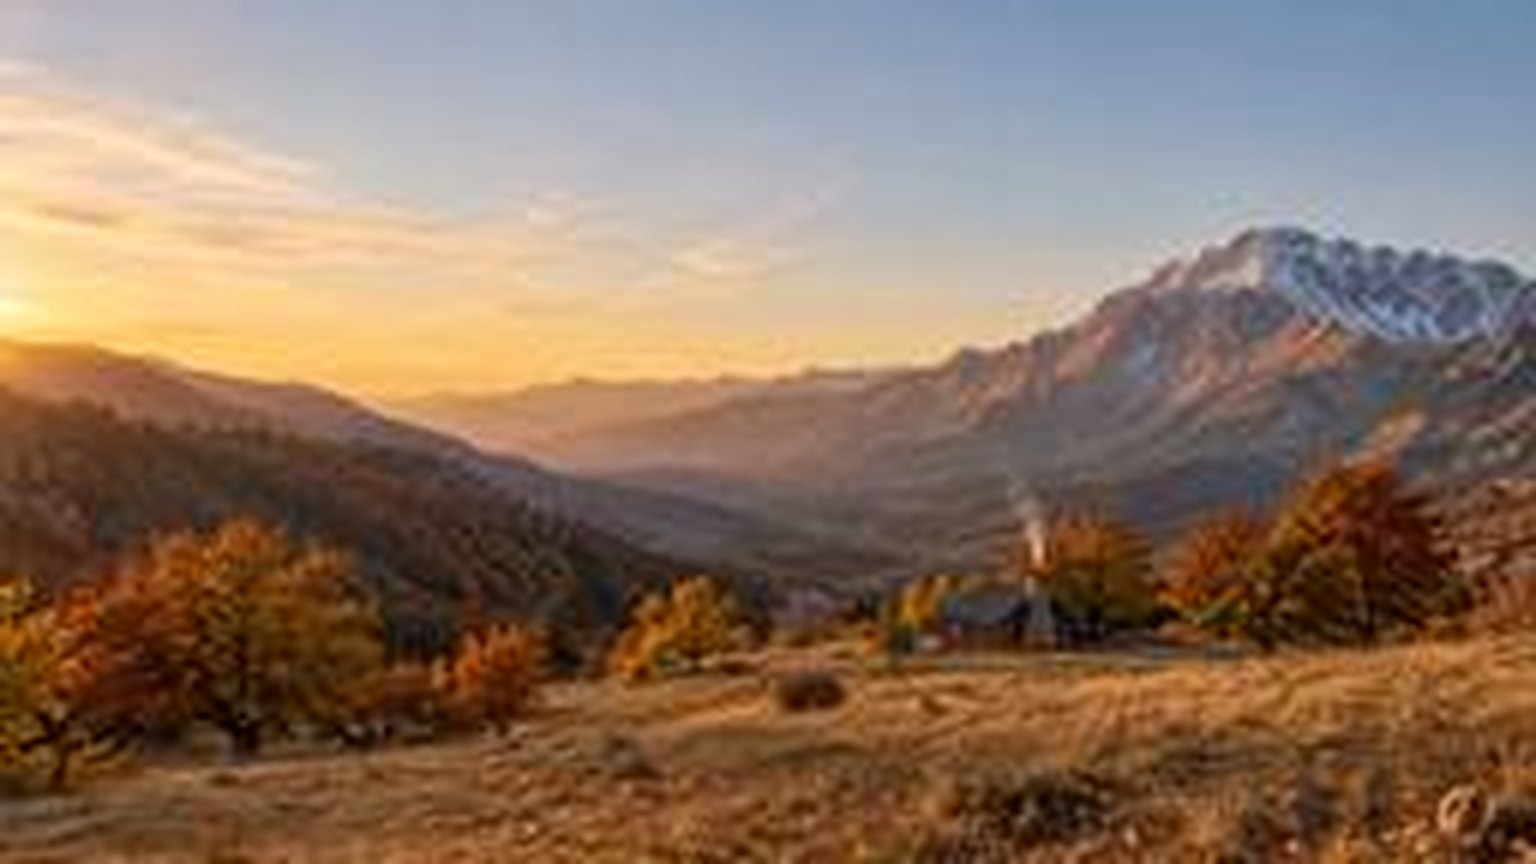
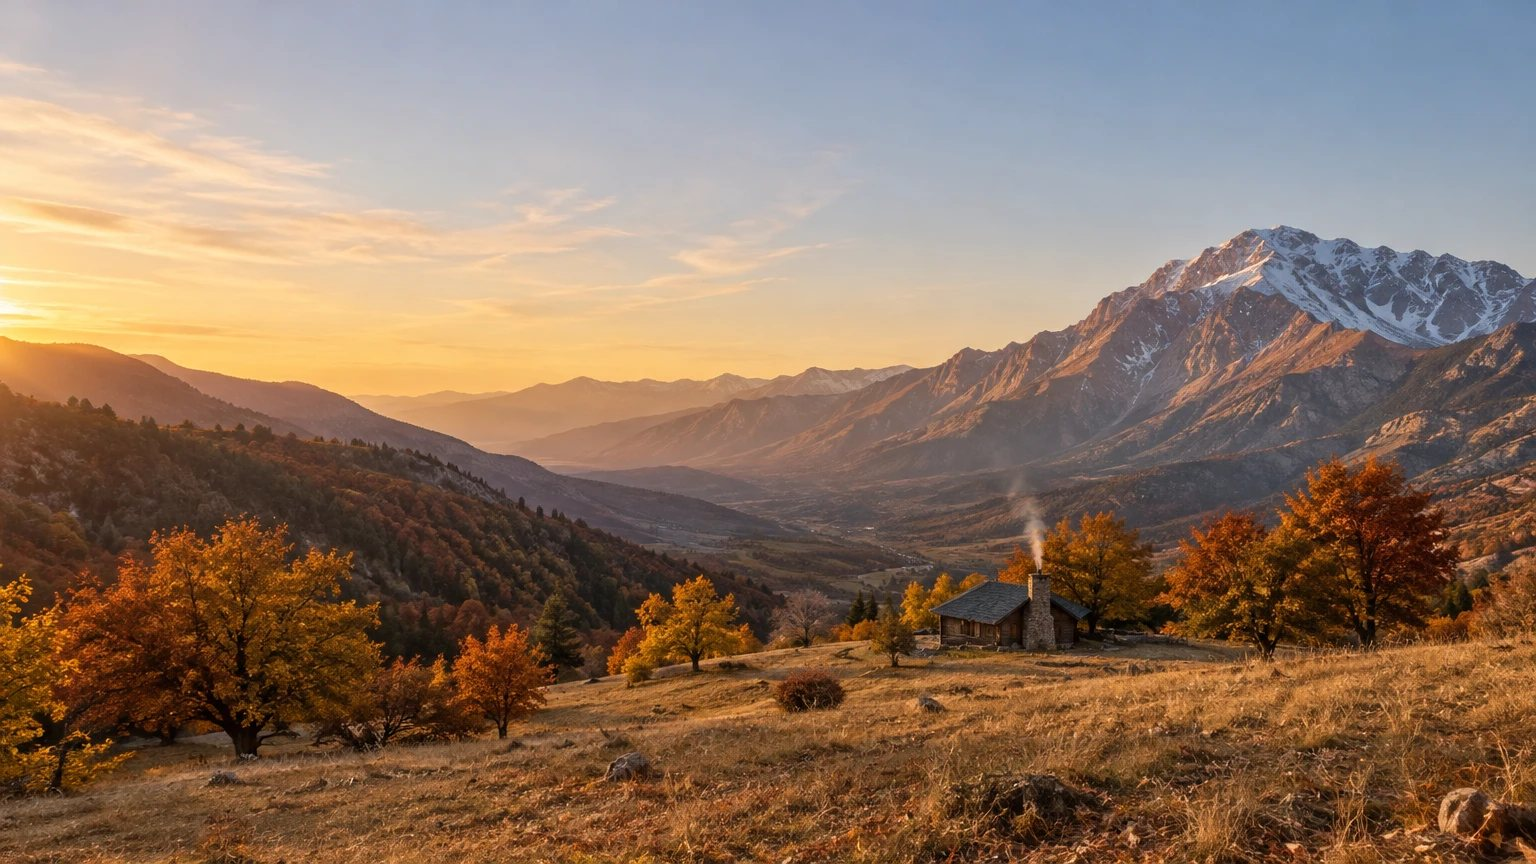
To'liq o'lchamli fasl suratlarini qo'shish
Claude-Session: https://claude.ai/code/session_014pk4HTyUJFkxvxas8cziGW

diff --git a/assets/js/world.js b/assets/js/world.js
@@ -38,7 +38,7 @@
     light:  ['#fff1d8', '#fff6dc', '#ffc27a', '#b9c4ff'],
   };
   const NUM = {
-    fog:     [.42, .04, .2, .22],   // vodiy tumani
+    fog:     [.3, .04, .18, .2],    // vodiy tumani
     rays:    [.15, .1, .5, 0],      // quyosh nurlari
     veil:    [.1, 0, .02, .06],     // havodagi namlik pardasi
     wind:    [.6, .15, 2.2, .7],

diff --git a/README.md b/README.md
@@ -14,8 +14,6 @@ Orqa fon — bitta kompozitsiyadagi 4 ta fotorealistik surat (`assets/img/bahor|
 bir-biriga o‘tadi. Ustida `canvas`da real ob-havo: chuqurlikka ega yomg‘ir va qor (bokeh), aylanib tushayotgan
 barglar, gulbarglar, suzuvchi vodiy tumani, quyosh nurlari.
 
-> **Diqqat:** hozirgi `assets/img/*.jpg` — vaqtinchalik past sifatli nusxalar. To‘liq o‘lchamli suratlar bilan
-> almashtirilishi kerak (bir xil fayl nomlari, 1536×864 yoki kattaroq).
 
 Interaktivlik: sichqoncha parallaksi, bo‘sh joyga bosganda faslga mos zarrachalar, o‘ng tomonda
 altimetr, so‘zma-so‘z ochiladigan manifest, gorizontal portfolio galereyasi, email nusxalash.
